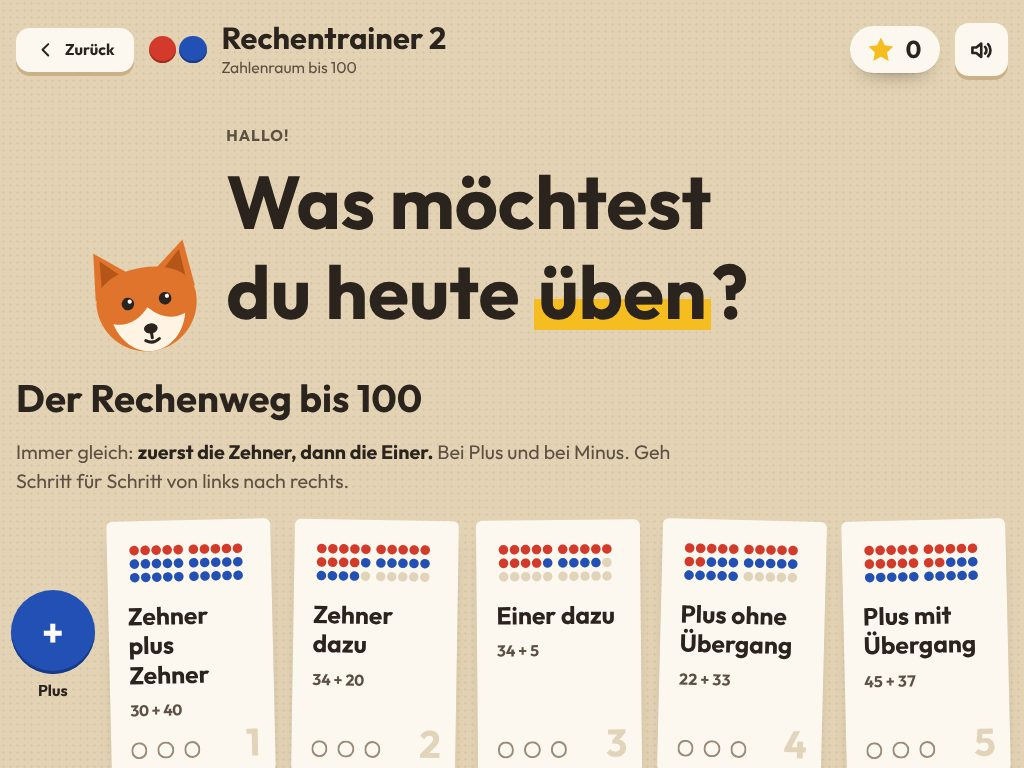
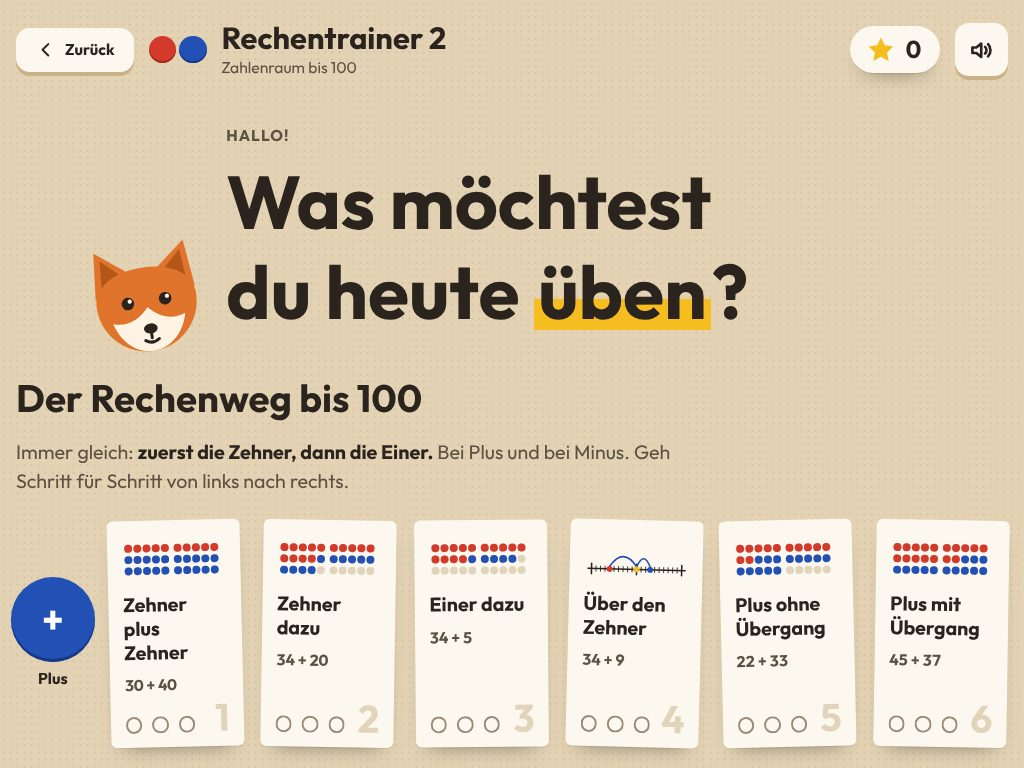
Rechentrainer 2: neuer Schritt «Über den Zehner» mit Zahlenstrahl
- Plus 34 + 9 und Minus 32 − 8 als eigener Schritt 4 im Rechenweg
- Zahlenstrahl: erst bis zum vollen Zehner springen, dann den Rest
  (Leicht in zwei Sprüngen, Mittel mit Zahlenstrahl, Schwer im Kopf)
- «Einer dazu / Einer weg» jetzt nur noch ohne Zehnerübergang
- Zweistellige Aufgaben ohne und mit Übergang werden Schritt 5 und 6

Claude-Session: https://claude.ai/code/session_01BpfrrDwXq9ASr4SnvhuW7U

Changed region(s): [[0.0938, 0.6562, 1.0, 1.0], [0.0, 0.75, 0.0938, 0.9062]]

diff --git a/apps/rechentrainer-2.html b/apps/rechentrainer-2.html
@@ -353,7 +353,7 @@ p{margin:0}
 .waylbl.p i{background:var(--blue);box-shadow:inset 0 -3px 0 var(--blue-deep)}
 .waylbl.m i{background:var(--red);box-shadow:inset 0 -3px 0 var(--red-deep)}
 .cards.way5{grid-template-columns:repeat(auto-fill,minmax(min(100%,10rem),1fr));padding-top:0}
-@media (min-width:1000px){.cards.way5{grid-template-columns:repeat(5,minmax(0,1fr))}}
+@media (min-width:1000px){.cards.way5{grid-template-columns:repeat(6,minmax(0,1fr))}.cards.way5 .card{padding-inline:var(--s3)}.cards.way5 .tt{font-size:var(--text-base)}}
 @media (max-width:640px){.wayrow{grid-template-columns:minmax(0,1fr)}.waylbl{flex-direction:row;width:auto}}
 .card .ex{font-family:var(--font-display);font-weight:var(--font-bold);font-size:var(--text-sm);color:var(--ink-soft);font-variant-numeric:tabular-nums}
 
@@ -397,6 +397,30 @@ p{margin:0}
   .split .hidecard{min-height:12rem}
 }
 @media (max-width:560px){.formula.two{font-size:var(--text-3xl)}.formula.two .slot{font-size:var(--text-4xl)}}
+
+/* Zahlenstrahl: Sprung bis zum Zehner, dann weiter */
+.zstrahl{width:100%;max-width:40rem;padding:var(--s2);background:var(--paper-hi);border-radius:12px;box-shadow:inset 0 0 0 2px var(--line)}
+.zstrahl svg{display:block;width:100%;height:auto;overflow:visible}
+.zs-axis{stroke:var(--ink);stroke-width:3;stroke-linecap:round}
+.zs-tick{stroke:var(--ink-soft);stroke-width:2;stroke-linecap:round}
+.zs-tick.big{stroke:var(--ink);stroke-width:3.5}
+.zs-ten{font-family:var(--font-display);font-weight:var(--font-bold);font-size:34px;fill:var(--ink);text-anchor:middle}
+.zs-z{fill:var(--mark);stroke:var(--mark-ink);stroke-width:2}
+.zs-arc{fill:none;stroke-width:5;stroke-linecap:round}
+.zs-arc.zp{stroke:var(--blue)} .zs-arc.zp.k2{stroke:var(--blue-deep)}
+.zs-arc.zm{stroke:var(--red)} .zs-arc.zm.k2{stroke:var(--red-deep)}
+.zs-pill.zp{fill:var(--blue)} .zs-pill.zp.k2{fill:var(--blue-deep)}
+.zs-pill.zm{fill:var(--red)} .zs-pill.zm.k2{fill:var(--red-deep)}
+.zs-plbl{font-family:var(--font-display);font-weight:var(--font-bold);font-size:28px;fill:var(--paper-hi);text-anchor:middle}
+.zs-start{fill:var(--ink)}
+.zs-end{fill:var(--paper-hi);stroke:var(--ink-faint);stroke-width:2.5;stroke-dasharray:3 3}
+.zs-end.on{fill:var(--ok);stroke:var(--ok-deep);stroke-dasharray:none}
+.zs-num{font-family:var(--font-display);font-weight:var(--font-bold);font-size:32px;text-anchor:middle}
+.zs-num.st{fill:var(--ink)}
+.zs-num.en{fill:var(--ink-faint)} .zs-num.en.on{fill:var(--ok)}
+.m-ab{fill:none;stroke:var(--blue);stroke-width:1.8;stroke-linecap:round}
+.m-ar{fill:none;stroke:var(--red);stroke-width:1.8;stroke-linecap:round}
+.zs-lead{stroke:var(--ink-faint);stroke-width:1.5;stroke-dasharray:2 3}
 </style>
 <!-- LERNSTAND-QR: Anfang (Baustein für alle Lern-Apps, gleich in jeder App) -->
 <script>
@@ -2229,12 +2253,13 @@ var qrcode = function () {
    Der Lernstand lebt nur im Arbeitsspeicher; für die Lehrperson gibt es den Lernstand-Code.
 
    Aufbau: 5 Grundlagen (Zahlbild, Zählen in Schritten, Ergänzen, Verdoppeln, Halbieren)
-   und der Rechenweg in 5 Schritten, gleich für Plus und Minus:
+   und der Rechenweg in 6 Schritten, gleich für Plus und Minus:
      1  Z ± Z           30 + 40    70 − 40
      2  ZE ± Z          34 + 20    54 − 20
-     3  ZE ± E          34 + 5     37 − 5     (Stufe 2 und 3: über den Zehner)
-     4  ZE ± ZE ohne    22 + 33    58 − 23    (zuerst die Zehner, dann die Einer)
-     5  ZE ± ZE mit     45 + 37    82 − 37    (45 + 30 = 75, 75 + 7 = 82)
+     3  ZE ± E          34 + 5     37 − 5     (nicht über den Zehner)
+     4  über den Zehner 34 + 9     32 − 8     (Zahlenstrahl: 34 + 6 = 40, 40 + 3 = 43)
+     5  ZE ± ZE ohne    22 + 33    58 − 23    (zuerst die Zehner, dann die Einer)
+     6  ZE ± ZE mit     45 + 37    82 − 37    (45 + 30 = 75, 75 + 7 = 82)
    ========================================================= */
 
 const $app = document.getElementById('app');
@@ -2249,13 +2274,15 @@ const MODULES = [
   {id:6,  grp:'p', step:1, title:'Zehner plus Zehner', ex:'30 + 40'},
   {id:7,  grp:'p', step:2, title:'Zehner dazu',        ex:'34 + 20'},
   {id:8,  grp:'p', step:3, title:'Einer dazu',         ex:'34 + 5'},
-  {id:9,  grp:'p', step:4, title:'Plus ohne Übergang', ex:'22 + 33'},
-  {id:10, grp:'p', step:5, title:'Plus mit Übergang',  ex:'45 + 37'},
+  {id:16, grp:'p', step:4, title:'Über den Zehner',    ex:'34 + 9'},
+  {id:9,  grp:'p', step:5, title:'Plus ohne Übergang', ex:'22 + 33'},
+  {id:10, grp:'p', step:6, title:'Plus mit Übergang',  ex:'45 + 37'},
   {id:11, grp:'m', step:1, title:'Zehner minus Zehner',ex:'70 − 40'},
   {id:12, grp:'m', step:2, title:'Zehner weg',         ex:'54 − 20'},
   {id:13, grp:'m', step:3, title:'Einer weg',          ex:'37 − 5'},
-  {id:14, grp:'m', step:4, title:'Minus ohne Übergang',ex:'58 − 23'},
-  {id:15, grp:'m', step:5, title:'Minus mit Übergang', ex:'82 − 37'}
+  {id:17, grp:'m', step:4, title:'Über den Zehner',    ex:'32 − 8'},
+  {id:14, grp:'m', step:5, title:'Minus ohne Übergang',ex:'58 − 23'},
+  {id:15, grp:'m', step:6, title:'Minus mit Übergang', ex:'82 − 37'}
 ];
 const MOD = id => MODULES.find(m => m.id === id);
 const label = m => m.grp==='g' ? `Übung ${m.id}` : `${m.grp==='p'?'Plus':'Minus'} · Schritt ${m.step}`;
@@ -2268,12 +2295,14 @@ const LDESC = {
   5:['Gerade Zehnerzahlen','Alle Zehnerzahlen','Gerade Zahlen bis 100 – im Kopf'],
   6:['Bis 50, mit kleiner Aufgabe','Bis 100','Im Kopf, auch mit Lücke'],
   7:['Bis 60','Bis 100','Im Kopf, auch getauscht'],
-  8:['Nicht über den Zehner','Über den Zehner','Über den Zehner – im Kopf'],
+  8:['Bis 50, mit kleiner Aufgabe','Bis 100, auch bis zum Zehner','Im Kopf'],
   9:['In zwei Schritten','Bis 100, mit Bild','Im Kopf'],
   10:['In zwei Schritten, mit Bild','In zwei Schritten, ohne Bild','Im Kopf'],
   11:['Bis 50, mit kleiner Aufgabe','Bis 100','Im Kopf, auch mit Lücke'],
   12:['Bis 60','Bis 100','Im Kopf, auch mit Lücke'],
-  13:['Nicht über den Zehner','Über den Zehner','Über den Zehner – im Kopf'],
+  13:['Bis 50, mit kleiner Aufgabe','Bis 100, auch bis zum Zehner','Im Kopf'],
+  16:['Zahlenstrahl, in zwei Sprüngen','Zahlenstrahl, ein Ergebnis','Im Kopf'],
+  17:['Zahlenstrahl, in zwei Sprüngen','Zahlenstrahl, ein Ergebnis','Im Kopf'],
   14:['In zwei Schritten','Bis 100, mit Bild','Im Kopf'],
   15:['In zwei Schritten, mit Bild','In zwei Schritten, ohne Bild','Im Kopf']
 };
@@ -2338,6 +2367,14 @@ const MINI = {
   15:['rrrrrrrxxx','xxxxxxxxxx','xx']
 };
 function miniV(id){
+  if(id===16 || id===17){
+    const p=id===16, X=n=>8+n*5.2; let t='<line class="m-l" x1="4" y1="34" x2="116" y2="34"/>';
+    for(let n=0;n<=20;n++) t+=`<line class="m-l" style="stroke-width:${n%10?1:1.8}" x1="${X(n)}" y1="${n%10?31:28}" x2="${X(n)}" y2="${n%10?37:40}"/>`;
+    const a=p?4:12, z=10, e=p?13:4, cl=p?'m-ab':'m-ar';
+    t+=`<path class="${cl}" d="M${X(a)} 31Q${(X(a)+X(z))/2} 8 ${X(z)} 31"/><path class="${cl}" d="M${X(z)} 31Q${(X(z)+X(e))/2} 12 ${X(e)} 31"/>`;
+    t+=`<circle class="m-${p?'r':'r'}" cx="${X(a)}" cy="34" r="3.4"/><circle class="m-b" cx="${X(e)}" cy="34" r="3.4"/><circle style="fill:var(--mark)" cx="${X(z)}" cy="34" r="3.4"/>`;
+    return `<svg class="mini" viewBox="0 0 120 44" aria-hidden="true" focusable="false">${t}</svg>`;
+  }
   const X = c => 7 + c*10.6 + (c>=5?4:0), Y = r => 9 + r*13, R0 = 4.6;
   let s = '';
   for(let r=0;r<3;r++) for(let c=0;c<10;c++) s += `<circle class="m-h" cx="${X(c)}" cy="${Y(r)}" r="${R0}"/>`;
@@ -2450,7 +2487,20 @@ function einerHint(a, op, e){
   return `Über den Zehner: erst ${a} − ${E(a)} = ${a-E(a)}. Dann noch ${e-E(a)} weg.`;
 }
 
-/* ---------------- Aufgaben: 15 Übungen × 3 Stufen ---------------- */
+// Über den Zehner: zuerst bis zum vollen Zehner springen, dann den Rest. Bild: Zahlenstrahl.
+function ueberTask(a, op, b, L){
+  const plus = op==='+', z = plus ? 10*(Z(a)+1) : 10*Z(a);
+  const j1 = plus ? z-a : a-z, j2 = b-j1, res = plus ? a+b : a-b;
+  const line = {a, op, z, res, j:[j1,j2], lo:z-10, hi:z+10, lbl1:L>1};
+  const hint = plus ? `Erst bis ${z}: ${a} + ${j1} = ${z}. Dann noch ${j2} dazu.` : `Erst bis ${z}: ${a} − ${j1} = ${z}. Dann noch ${j2} weg.`;
+  if(L===1) return T('Spring zuerst bis zum Zehner, dann weiter.',[a,op,b,'=',FL(1)],[j1,res],null,{line,
+      steps:[[a,op,SL(0),'=',z],[z,op,j2,'=',SL(1)]],
+      hints:[`Wie weit ist es von ${a} bis ${z}? Zähle die kleinen Striche.`, plus?`${z} + ${j2}: der Zehner bleibt, nur noch die Einer.`:`${z} − ${j2}: vom vollen Zehner zurück.`]});
+  if(L===2) return T('Über den Zehner! Der Zahlenstrahl hilft.',[a,op,b,'=',S],res,null,{line,hint});
+  return T('Über den Zehner im Kopf!',[a,op,b,'=',S],res,null,{line,hidden:true,hint});
+}
+
+/* ---------------- Aufgaben: 17 Übungen × 3 Stufen ---------------- */
 function gen(m, L){
   switch(m){
     case 1: { // Wie viele? Zahlbild am Hunderterfeld
@@ -2526,8 +2576,8 @@ function gen(m, L){
     case 8: { // ZE + E
       let a,b;
       if(L===1){ do{ a=ZE(11,49); b=R(1,10-E(a)); }while(a+b>100); return T('Einer dazu.',[a,'+',b,'=',S],a+b,fSeq(a,b),{ref:[E(a),'+',b,'=',E(a)+b],refLbl:'Kleine Aufgabe',hint:einerHint(a,'+',b)}); }
-      do{ a=ZE(12,95); b=R(2,9); }while(E(a)+b<=10 || a+b>100);
-      return T(L===2?'Einer dazu – über den Zehner.':'Über den Zehner im Kopf!',[a,'+',b,'=',S],a+b,fSeq(a,b),{hidden:L===3,hint:einerHint(a,'+',b)});
+      do{ a=ZE(11,99); b=R(1,9); }while(E(a)+b>10 || a+b>100);
+      return T(L===2?'Einer dazu.':'Einer dazu im Kopf!',[a,'+',b,'=',S],a+b,fSeq(a,b),{hidden:L===3,hint:einerHint(a,'+',b)});
     }
     case 9: { // ZE + ZE ohne Übergang
       let a,b; const hi = L===1 ? 69 : 99;
@@ -2563,8 +2613,8 @@ function gen(m, L){
     case 13: { // ZE − E
       let a,b;
       if(L===1){ a=ZE(11,49); b=R(1,E(a)); return T('Einer weg.',[a,'−',b,'=',S],a-b,fSeq(a,0,b),{ref:[E(a),'−',b,'=',E(a)-b],refLbl:'Kleine Aufgabe',hint:einerHint(a,'−',b)}); }
-      do{ a=ZE(21,98); b=R(2,9); }while(b<=E(a));
-      return T(L===2?'Einer weg – über den Zehner.':'Über den Zehner im Kopf!',[a,'−',b,'=',S],a-b,fSeq(a,0,b),{hidden:L===3,hint:einerHint(a,'−',b)});
+      do{ a=ZE(11,99); b=R(1,9); }while(b>E(a));
+      return T(L===2?'Einer weg.':'Einer weg im Kopf!',[a,'−',b,'=',S],a-b,fSeq(a,0,b),{hidden:L===3,hint:einerHint(a,'−',b)});
     }
     case 14: { // ZE − ZE ohne Übergang
       let a,b; const hi = L===1 ? 69 : 99;
@@ -2572,6 +2622,14 @@ function gen(m, L){
       if(L===1) return stepTask('Zuerst die Zehner, dann die Einer.',a,'−',b,fSeq(a,0,b));
       const hint=`Zuerst die Zehner: ${a} − ${Z(b)*10} = ${a-Z(b)*10}. Dann noch ${E(b)} weg.`;
       return T(L===2?'Minus ohne Übergang.':'Minus im Kopf!',[a,'−',b,'=',S],a-b,fSeq(a,0,b),{hidden:L===3,hint});
+    }
+    case 16: { // ZE + E über den Zehner, Zahlenstrahl
+      let a,b; do{ a=ZE(11,98); b=R(2,9); }while(E(a)+b<=10 || a+b>100);
+      return ueberTask(a,'+',b,L);
+    }
+    case 17: { // ZE − E über den Zehner, Zahlenstrahl
+      let a,b; do{ a=ZE(11,99); b=R(2,9); }while(b<=E(a) || a-b<1);
+      return ueberTask(a,'−',b,L);
     }
     default: { // ZE − ZE mit Übergang
       let a,b;
@@ -2711,6 +2769,42 @@ function frameV(cells, small){
   }
   return `<div class="frame h100${small?' small':''}"><div class="fgrid h100">${h}</div></div>`;
 }
+// Zahlenstrahl: ein Ausschnitt von 20 Zahlen um den Zehner, zwei Sprungbögen
+function lineV(l0){
+  // Auf dem Handy nur der Ausschnitt um die Sprünge, damit Zahlen und Striche gross bleiben
+  const l = Object.assign({}, l0);
+  if(window.innerWidth < 600){
+    let lo=Math.min(l.a,l.res)-2, hi=Math.max(l.a,l.res)+2;
+    while(hi-lo<9){ lo--; if(hi-lo<9) hi++; }
+    l.lo=lo; l.hi=hi;
+  }
+  const r=st.round, W=640, x0=30, x1=W-30, u=(x1-x0)/(l.hi-l.lo), X=n=>x0+(n-l.lo)*u, y=150;
+  const cls = l.op==='+' ? 'zp' : 'zm';
+  let s=`<line class="zs-axis" x1="${x0-14}" y1="${y}" x2="${x1+14}" y2="${y}"/>`;
+  for(let n=l.lo;n<=l.hi;n++){
+    const big=n%10===0, mid=n%5===0, h=big?20:mid?13:8;
+    s+=`<line class="zs-tick${big?' big':''}" x1="${X(n)}" y1="${y-h}" x2="${X(n)}" y2="${y+h}"/>`;
+    if(big) s+=`<text class="zs-ten" x="${X(n)}" y="${y+54}">${n}</text>`;
+  }
+  // der Zehner, über den man springt, ist markiert
+  s+=`<circle class="zs-z" cx="${X(l.z)}" cy="${y}" r="11"/>`;
+  const known0 = l.lbl1 || r.vals[0]!==undefined || r.phase==='correct' || r.phase==='reveal';
+  const done = r.vals[r.cur.answers.length-1]!==undefined;
+  // liegen die beiden Schilder zu nah beieinander, springt der zweite Bogen höher
+  const lift = Math.abs((X(l.a)-X(l.res))/2) < 84 ? 48 : 0;
+  const arc=(from,to,lbl,k)=>{
+    const xa=X(from), xb=X(to), mx=(xa+xb)/2, hgt=Math.min(70, 30+Math.abs(xb-xa)*.3)+(k?lift:0);
+    const tw = Math.max(64, String(lbl).length*20+26);
+    return `<path class="zs-arc ${cls}${k?' k2':''}" d="M${xa} ${y-4} Q${mx} ${y-hgt*2+4} ${xb} ${y-4}"/>
+      <rect class="zs-pill ${cls}${k?' k2':''}" x="${mx-tw/2}" y="${y-hgt-20}" width="${tw}" height="40" rx="20"/>
+      <text class="zs-plbl" x="${mx}" y="${y-hgt+10}">${lbl}</text>`;
+  };
+  s+=arc(l.a, l.z, `${l.op} ${known0 ? l.j[0] : '?'}`, 0);
+  s+=arc(l.z, l.res, `${l.op} ${l.j[1]}`, 1);
+  s+=`<circle class="zs-start" cx="${X(l.a)}" cy="${y}" r="9"/><line class="zs-lead" x1="${X(l.a)}" y1="${y+12}" x2="${X(l.a)}" y2="${y+68}"/><text class="zs-num st" x="${X(l.a)}" y="${y+100}">${l.a}</text>`;
+  s+=`<circle class="zs-end${done?' on':''}" cx="${X(l.res)}" cy="${y}" r="9"/><line class="zs-lead" x1="${X(l.res)}" y1="${y+12}" x2="${X(l.res)}" y2="${y+68}"/><text class="zs-num en${done?' on':''}" x="${X(l.res)}" y="${y+100}">${done?l.res:'?'}</text>`;
+  return `<div class="zstrahl"><svg viewBox="0 0 ${W} 262" role="img" aria-label="Zahlenstrahl von ${l.lo} bis ${l.hi}">${s}</svg></div>`;
+}
 function slotCls(){ const r=st.round; if(r.phase==='correct') return 'ok'; if(r.phase==='reveal'||r.phase==='stepReveal') return 'rev'; if(r.shake) return 'bad'; return r.input===''?'empty':''; }
 function slotTxt(){ return st.round.input==='' ? '?' : st.round.input; }
 function tokV(p){
@@ -2747,13 +2841,13 @@ function playV(){
   const r=st.round, t=r.cur, m=MOD(st.m);
   const dots = r.results.map((v,i)=>`<i class="dot ${v||''} ${(!t.retry && t.oi===i)?'cur':''}"></i>`).join('');
   let pic='';
-  if(t.cells){
+  if(t.cells || t.line){
     if(r.frameHidden){
       pic = st.mode==='blitz'
         ? `<div class="hidecard">${ic('eyeoff','big')}Was hast du gesehen?<button class="btn smallbtn" data-a="peek">${ic('eye')}Nochmal zeigen</button></div>`
         : `<div class="hidecard">${foxV()}Rechne im Kopf!<button class="btn smallbtn" data-a="help">${ic('bulb')}Hilfe: Bild zeigen</button></div>`;
     } else {
-      pic = frameV(t.cells, !!t.steps);
+      pic = t.line ? lineV(t.line) : frameV(t.cells, !!t.steps);
       const left = r.blitzEnd - Date.now();
       if(st.mode==='blitz' && left>0) pic += `<div class="timebar"><i style="animation-duration:${r.blitzMs}ms;animation-delay:-${r.blitzMs-left}ms"></i></div>`;
     }
@@ -2774,10 +2868,10 @@ function playV(){
         ${t.retry?`<span class="badge">${ic('retry')}Nochmal</span>`:''}
       </div>
       ${t.ref?`<div class="ref">${t.refLbl?`<small>${t.refLbl}</small>`:''}${t.ref.join(' ')}</div>`:''}
-      ${t.steps ? `<div class="split">${pic?`<div class="sp-pic">${pic}</div>`:''}<div class="sp-calc">
+      ${t.steps && !t.line ? `<div class="split">${pic?`<div class="sp-pic">${pic}</div>`:''}<div class="sp-calc">
         <div class="${fcls}">${t.parts.map(tokV).join('')}</div>
         <div class="rweg"><small>Rechenweg</small>${t.steps.map(line=>`<div class="formula step-f">${line.map(tokV).join('')}</div>`).join('')}</div>
-      </div></div>` : `${pic}<div class="${fcls}">${t.parts.map(tokV).join('')}</div>`}
+      </div></div>` : `${pic}<div class="${fcls}">${t.parts.map(tokV).join('')}</div>${t.steps?`<div class="rweg"><small>In zwei Sprüngen</small>${t.steps.map(line=>`<div class="formula step-f">${line.map(tokV).join('')}</div>`).join('')}</div>`:''}`}
       ${r.msg?`<div class="mascot">${foxV(r.mood)}<div class="bubble">${r.msg}</div></div>`:''}
     </section>
     <section class="padarea">${padV()}</section>
@@ -2788,7 +2882,7 @@ function endV(){
   const r=st.round, s=r.score, n = s>=9?3 : s>=7?2 : s>=4?1 : 0;
   const msg = s>=9?'Wow, super gemacht!' : s>=7?'Sehr gut!' : s>=4?'Gut geübt! Weiter so.' : 'Das war schwierig. Übe nochmal in Ruhe.';
   const up = s>=8 && st.L<3, down = s<=4 && st.L>1;
-  const m = MOD(st.m), nextMod = st.L===3 && s>=8 && m.grp!=='g' && m.step<5 ? MODULES.find(x=>x.grp===m.grp && x.step===m.step+1) : null;
+  const m = MOD(st.m), nextMod = st.L===3 && s>=8 && m.grp!=='g' && m.step<6 ? MODULES.find(x=>x.grp===m.grp && x.step===m.step+1) : null;
   return `
   <div class="end">
     ${foxV('hop')}
@@ -2819,7 +2913,8 @@ function modalV(){
     <div class="overlay"><div class="modal" role="dialog" aria-modal="true" aria-labelledby="mh">
       <h3 id="mh">Für Eltern und Lehrpersonen</h3>
       <ul>
-        <li><b>Der Rechenweg in 5 Schritten,</b> für Plus und Minus gleich: 1. Zehner ± Zehner (30 + 40), 2. Zehner dazu/weg (34 + 20), 3. Einer dazu/weg, ab Stufe Mittel über den Zehner (37 + 5), 4. ohne Zehnerübergang (22 + 33), 5. mit Zehnerübergang (45 + 37). Ab Schritt 4 wird in zwei Schritten gerechnet: zuerst die Zehner, dann die Einer (45 + 30 = 75, 75 + 7 = 82).</li>
+        <li><b>Der Rechenweg in 6 Schritten,</b> für Plus und Minus gleich: 1. Zehner ± Zehner (30 + 40), 2. Zehner dazu/weg (34 + 20), 3. Einer dazu/weg, nicht über den Zehner (34 + 5), 4. Einer über den Zehner (34 + 9, 32 − 8), 5. ohne Zehnerübergang (22 + 33), 6. mit Zehnerübergang (45 + 37). Ab Schritt 5 wird in zwei Schritten gerechnet: zuerst die Zehner, dann die Einer (45 + 30 = 75, 75 + 7 = 82).</li>
+        <li><b>Über den Zehner</b> zeigt einen Zahlenstrahl: zuerst ein Sprung bis zum vollen Zehner, dann der Rest (34 + 6 = 40, 40 + 3 = 43). Leicht: in zwei Sprüngen, das Kind findet den ersten Sprung selbst. Mittel: Zahlenstrahl mit beiden Sprüngen, ein Ergebnis. Schwer: im Kopf, Zahlenstrahl auf Wunsch.</li>
         <li><b>Grundlagen</b> nach dem Blitzrechnen im Schweizer Zahlenbuch 2 und den Grundansprüchen des Lehrplans 21: Zehner und Einer am Hunderterfeld, Zählen in 2er-, 5er- und 10er-Schritten, Ergänzen zum Zehner und bis 100, Verdoppeln (10er- und 5er-Zahlen), Halbieren (10er-Zahlen).</li>
         <li><b>3 Stufen pro Übung,</b> erkennbar an 1, 2 oder 3 roten Punkten. Leicht: Hunderterfeld und oft eine «kleine Aufgabe» (3 + 4 = 7 hilft bei 30 + 40). Mittel: grösserer Zahlenraum, weniger Hilfen. Schwer: im Kopf; das Bild erscheint nur auf Wunsch («Hilfe»).</li>
         <li><b>Eine Runde hat 10 Aufgaben.</b> Nach einem Fehler gibt es einen Tipp, nach dem zweiten die Lösung. Die Aufgabe kommt später in der Runde nochmals.</li>
@@ -2851,7 +2946,7 @@ function beginTask(){
   r.cur=r.list[r.pos]; r.input=''; r.tries=0; r.triesK=0; r.k=0; r.vals=[]; r.revealed=false;
   r.help=false; r.phase='ask'; r.msg=''; r.mood=''; r.shake=false;
   r.frameHidden = st.mode==='practice' && r.cur.hidden; r.blitzEnd=0;
-  if(st.mode==='blitz' && r.cur.cells) startBlitz();
+  if(st.mode==='blitz' && (r.cur.cells || r.cur.line)) startBlitz();
   render();
 }
 function startBlitz(){
@@ -2996,6 +3091,8 @@ document.addEventListener('keydown', e => {
   else if(e.key==='Backspace'){ e.preventDefault(); delDigit(); }
   else if(e.key==='Enter'){ e.preventDefault(); const ph=st.round && st.round.phase; if(ph==='reveal'||ph==='stepReveal') act.next(); else submit(); }
 });
+let narrow = window.innerWidth < 600;   // Zahlenstrahl neu zeichnen, wenn das Gerät gedreht wird
+window.addEventListener('resize', () => { const n = window.innerWidth < 600; if(n!==narrow){ narrow=n; if(st.screen==='play' && st.round && st.round.cur.line) render(); } });
 window.addEventListener('beforeunload', e => { if(st.dirty){ e.preventDefault(); e.returnValue=''; } });
 
 /* ---------------- Lernstand-Code für «Lernstand einlesen» ---------------- */
@@ -3021,12 +3118,12 @@ LernstandQR.init({
     if(mastered.length) lines.push(`Alle Stufen geschafft: ${mastered.join(', ')}`);
     if(notStarted.length) lines.push(`Noch nicht begonnen: ${notStarted.join(', ')}`);
     return { s:'Zahlenraum bis 100', b:[
-      {k:'kpi', i:[[String(st.stars),'Sterne gesammelt'],[`${doneLv} von 45`,'Stufen geschafft'],[totT?`${Math.round(totC/totT*100)} %`:'–','beim 1. Versuch richtig']]},
+      {k:'kpi', i:[[String(st.stars),'Sterne gesammelt'],[`${doneLv} von ${MODULES.length*3}`,'Stufen geschafft'],[totT?`${Math.round(totC/totT*100)} %`:'–','beim 1. Versuch richtig']]},
       {k:'tab', h:['Übung','Leicht','Mittel','Schwer','Blitz (bestes)'], r:rows},
       {k:'legend', i:[['g','geschafft: mind. 8 von 10 beim 1. Versuch'],['y','geübt (bestes Ergebnis)'],['n','noch offen']]},
       {k:'h', x:'So geht es weiter'},
       {k:'list', i:lines},
-      {k:'p', s:'muted', o:1, x:'+1 bis +5 / −1 bis −5: Rechenweg Plus und Minus (Z±Z, ZE±Z, ZE±E, ZE±ZE ohne und mit Übergang). Leicht: mit Hunderterfeld. Mittel: weniger Hilfen. Schwer: im Kopf.'}
+      {k:'p', s:'muted', o:1, x:'+1 bis +6 / −1 bis −6: Rechenweg Plus und Minus (Z±Z, ZE±Z, ZE±E, ZE±E über den Zehner, ZE±ZE ohne und mit Übergang). Leicht: mit Hunderterfeld oder Zahlenstrahl. Mittel: weniger Hilfen. Schwer: im Kopf.'}
     ]};
   }
 });
